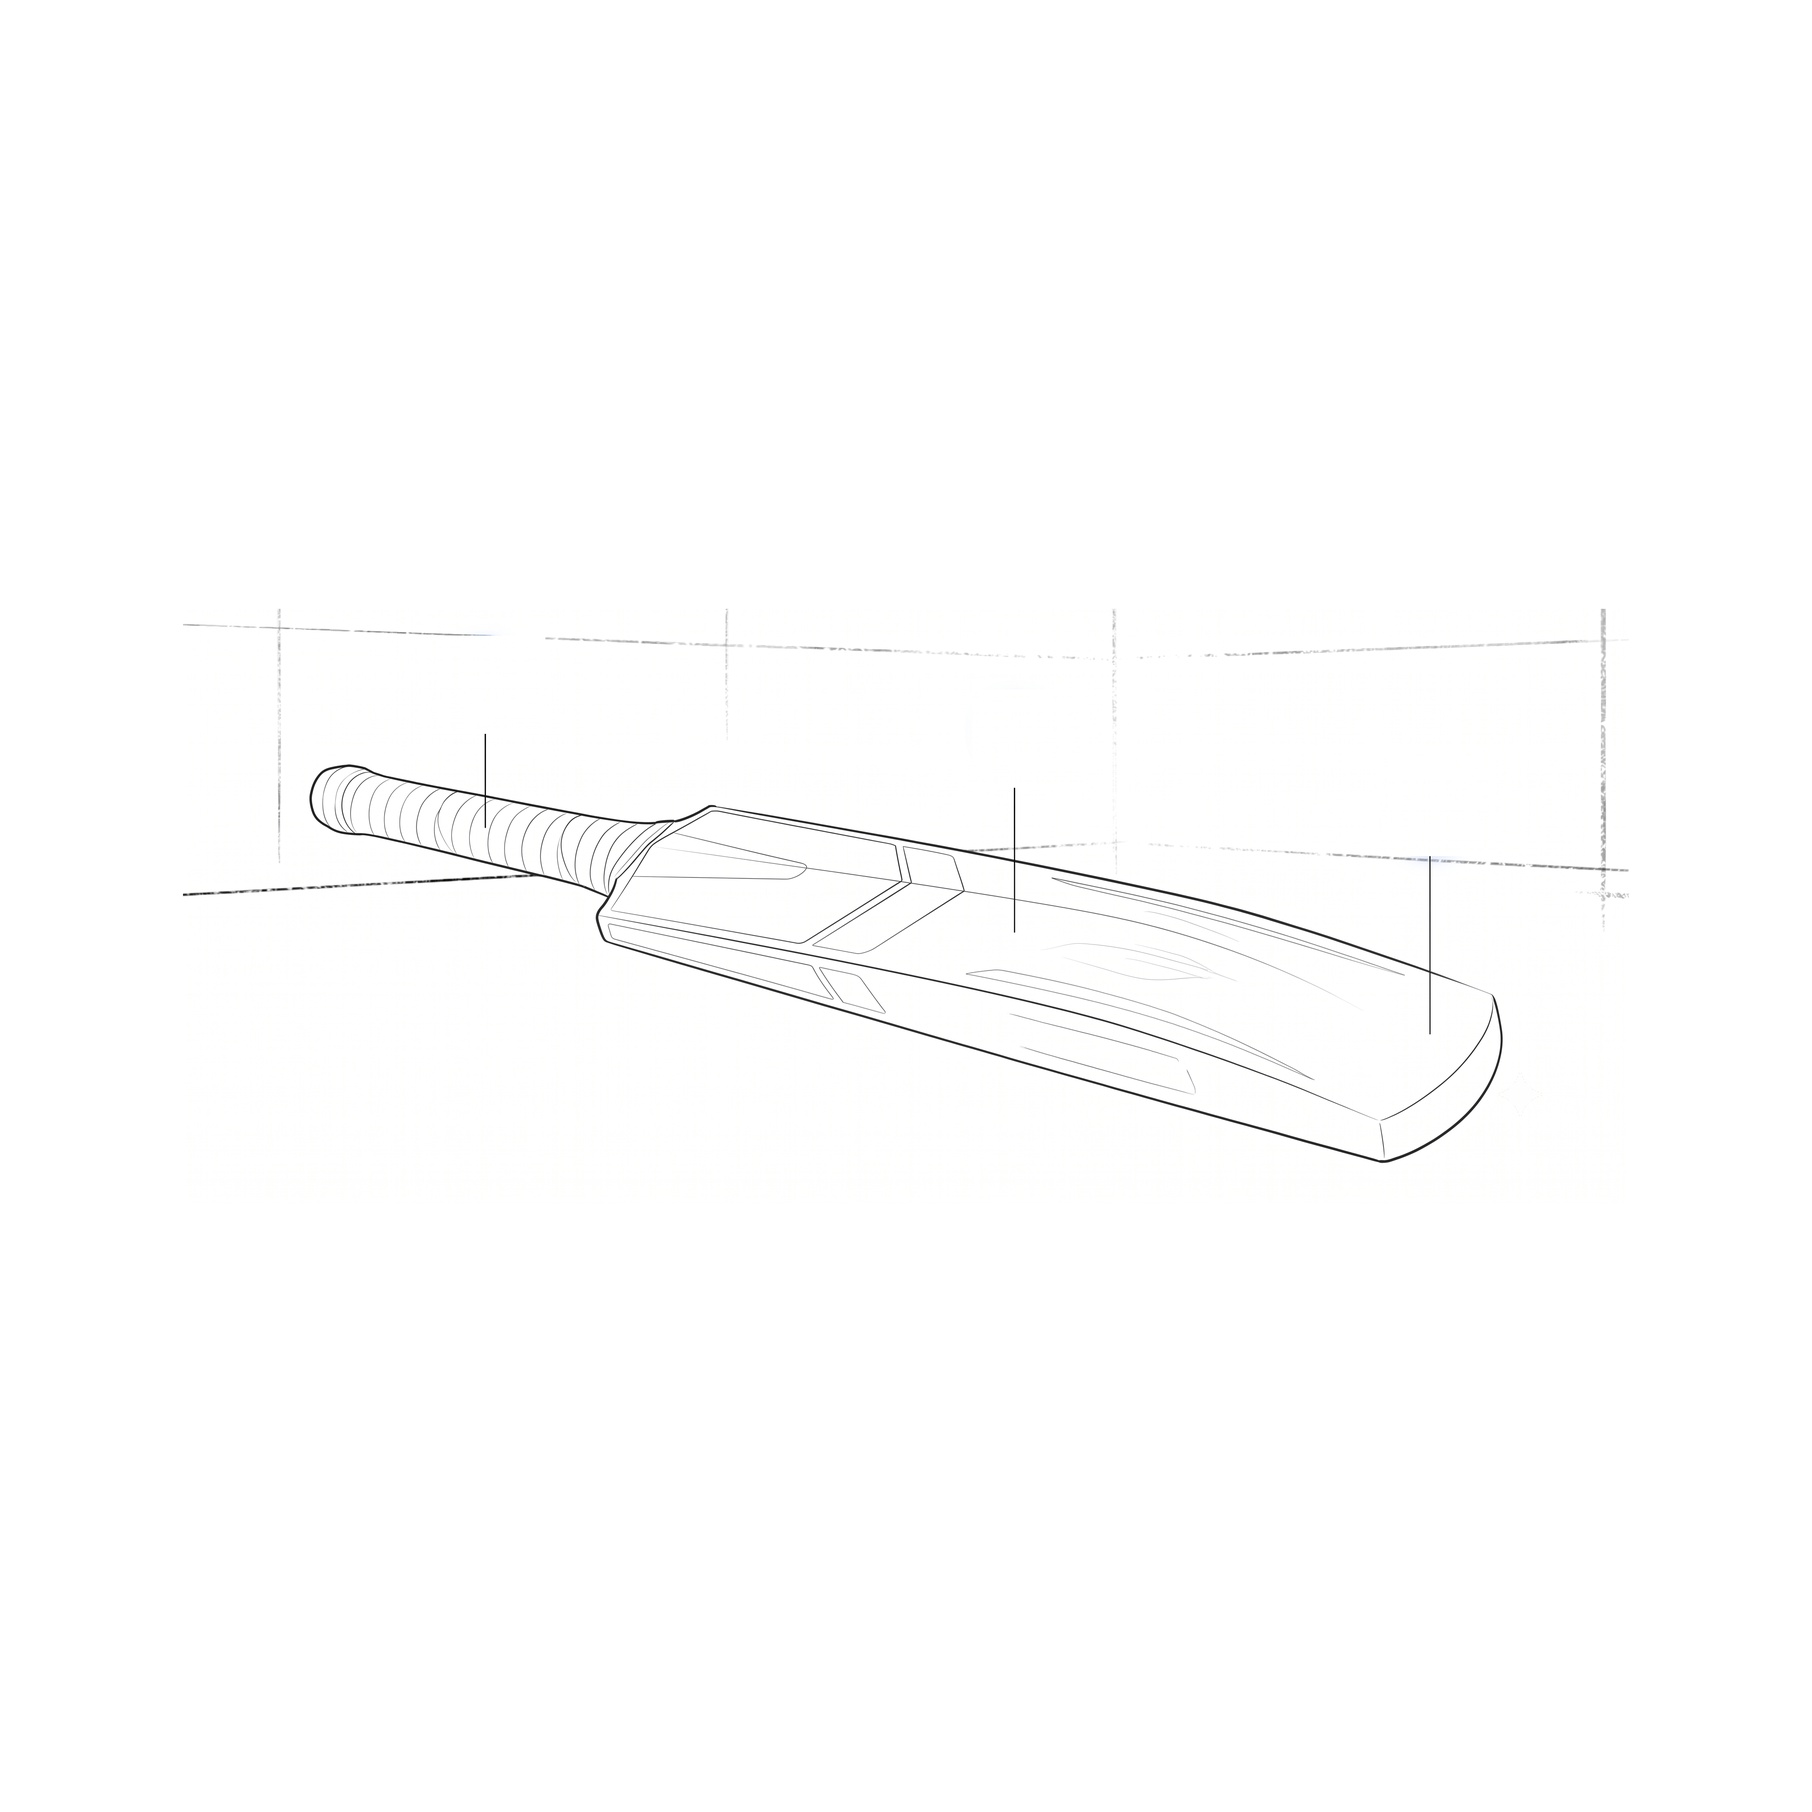
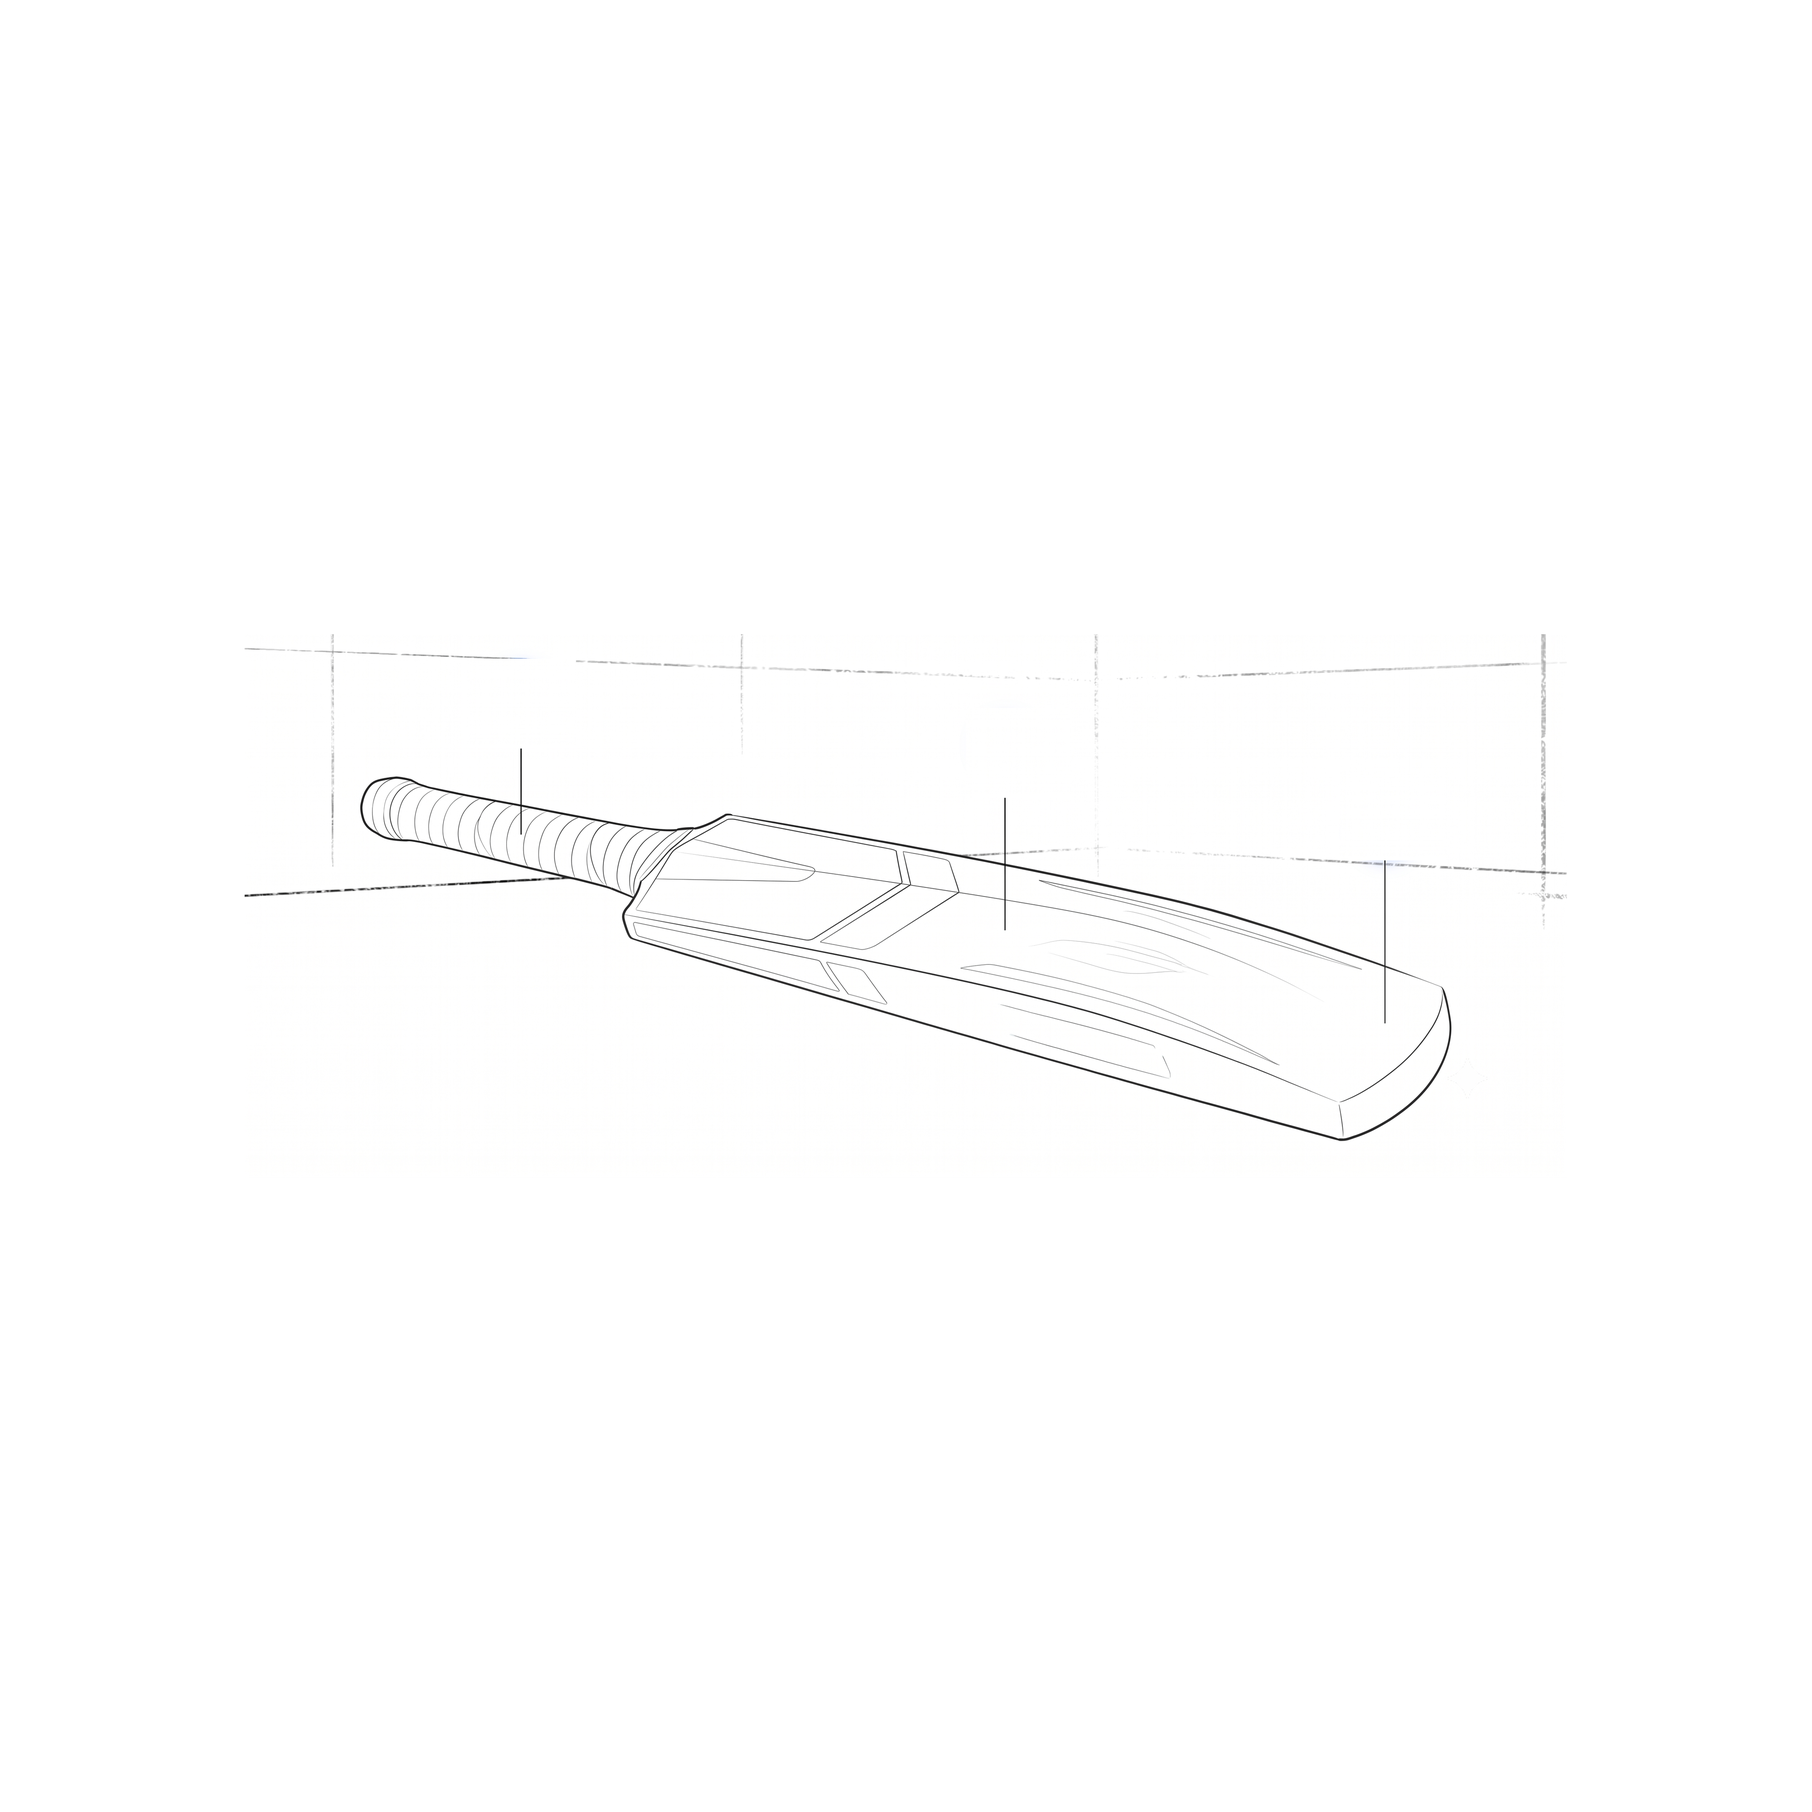
Enhance security section bat scale and shader animation

diff --git a/index.html b/index.html
@@ -3014,13 +3014,14 @@ document.addEventListener("DOMContentLoaded", () => {
 </svg></div></a><div class="mf1-stacks-mosaic-trigger-anchor" id="stacks-mosaic-trigger-anchor"></div><div class="mf1-stacks-graphics mf1-additional"><div class="mf1-stacks-canvas" id="stacks-canvas-1" style="--c-canvas-size: -80px; --c0-size: 0.2; --c1-size: 0.495; --c2-size: 0.4; --c3-size: 0.495; --c4-size: 0.3; --c5-size: 0.3; --c-uniform: 1;"><div class="mf1-connector-outie mf1-connector-0" id="connector-outie-1-0" style="transition: transform 2s cubic-bezier(0.4, 0, 0.2, 1), width 2s cubic-bezier(0.4, 0, 0.2, 1), opacity 2s cubic-bezier(0.4, 0, 0.2, 1); transform: translate(calc(0.4 * var(--c-canvas-size)), calc(0.5 * var(--c-canvas-size))); opacity: 0;"><div class="mf1-connector-innie mf1-connector-0" id="connector-innie-1-0" style="transition: transform 0.4s cubic-bezier(0.15, 0.5, 0.05, 1); transform: initial;"><div class="mf1-connector-image mf1-connector-image-0"></div></div></div><div class="mf1-connector-outie mf1-connector-1" id="connector-outie-1-1" style="transition: transform 2s cubic-bezier(0.4, 0, 0.2, 1), width 2s cubic-bezier(0.4, 0, 0.2, 1), opacity 2s cubic-bezier(0.4, 0, 0.2, 1); transform: translate(calc(0.6 * var(--c-canvas-size)), calc(0.332 * var(--c-canvas-size)));"><div class="mf1-connector-innie mf1-connector-1" id="connector-innie-1-1" style="transition: transform 0.4s cubic-bezier(0.15, 0.5, 0.05, 1); transform: initial;"><div class="mf1-connector-image mf1-connector-image-1"></div></div></div><div class="mf1-connector-outie mf1-connector-2" id="connector-outie-1-2" style="transition: transform 2s cubic-bezier(0.4, 0, 0.2, 1), width 2s cubic-bezier(0.4, 0, 0.2, 1), opacity 2s cubic-bezier(0.4, 0, 0.2, 1); transform: translate(calc(0.55 * var(--c-canvas-size)), calc(-0.1 * var(--c-canvas-size)));"><div class="mf1-connector-innie mf1-connector-2" id="connector-innie-1-2" style="transition: transform 0.4s cubic-bezier(0.15, 0.5, 0.05, 1); transform: initial;"><div class="mf1-connector-image mf1-connector-image-2"></div></div></div><div class="mf1-connector-outie mf1-connector-3" id="connector-outie-1-3" style="transition: transform 2s cubic-bezier(0.4, 0, 0.2, 1), width 2s cubic-bezier(0.4, 0, 0.2, 1), opacity 2s cubic-bezier(0.4, 0, 0.2, 1); transform: translate(calc(-0.1 * var(--c-canvas-size)), calc(0.1 * var(--c-canvas-size)));"><div class="mf1-connector-innie mf1-connector-3" id="connector-innie-1-3" style="transition: transform 0.4s cubic-bezier(0.15, 0.5, 0.05, 1); transform: initial;"><div class="mf1-connector-image mf1-connector-image-3"></div></div></div><div class="mf1-connector-outie mf1-connector-4" id="connector-outie-1-4" style="transition: transform 2s cubic-bezier(0.4, 0, 0.2, 1), width 2s cubic-bezier(0.4, 0, 0.2, 1), opacity 2s cubic-bezier(0.4, 0, 0.2, 1); transform: translate(calc(0.08 * var(--c-canvas-size)), calc(0.7 * var(--c-canvas-size)));"><div class="mf1-connector-innie mf1-connector-4" id="connector-innie-1-4" style="transition: transform 0.4s cubic-bezier(0.15, 0.5, 0.05, 1); transform: initial;"><div class="mf1-connector-image mf1-connector-image-4"></div></div></div><div class="mf1-connector-outie mf1-connector-5" id="connector-outie-1-5" style="transition: transform 2s cubic-bezier(0.4, 0, 0.2, 1), width 2s cubic-bezier(0.4, 0, 0.2, 1), opacity 2s cubic-bezier(0.4, 0, 0.2, 1); transform: translate(calc(0.54 * var(--c-canvas-size)), calc(0.85 * var(--c-canvas-size)));"><div class="mf1-connector-innie mf1-connector-5" id="connector-innie-1-5" style="transition: transform 0.4s cubic-bezier(0.15, 0.5, 0.05, 1); transform: initial;"><div class="mf1-connector-image mf1-connector-image-5"></div></div></div></div></div></div><div class="mf1-stacks-zone"><p class="mf1-caption" style="letter-spacing: 0.15em;">The Soorma Standard</p><h2 class="mf1-h2" style="font-weight: 700 !important;">Built for the big moments.<br>Ready for every match.</h2><p class="mf1-paragraph">From matchday content to team campaigns, every Soorma moment is built to carry the spirit of Amritsar. The work behind the team is just as relentless as the performance on the field.</p><a class="mf1-button w-inline-block" data-wf-ao-click-engagement-pitching="true" data-wf-element-id="cb2fc037-d0cb-4d7e-781d-6b4e54258482" data-wf-native-id-path="cb2fc037-d0cb-4d7e-781d-6b4e54258482" href="https://www.dropbox.com/dropbox" target="_blank"><div>Explore the Soorma world</div><div class="w-embed"><svg fill="currentColor" height="16" viewbox="0 0 16 16" width="16" xmlns="http://www.w3.org/2000/svg">
 <path d="M15.7139 7.75L8.88086 14.8564L7.61914 13.6436L12.4443 8.625H1.5V6.875H12.4443L7.61914 1.85645L8.88086 0.643555L15.7139 7.75Z"></path>
 </svg></div></a></div></div><div class="mf1-stacks-graphics-area" id="w-node-cb2fc037-d0cb-4d7e-781d-6b4e54258486-f9f398e2"><div class="mf1-stacks-stack-trigger-anchor" id="stacks-stack-trigger-anchor"></div><div class="mf1-stacks-end-trigger-anchor" id="stacks-end-trigger-anchor"></div><div class="mf1-stacks-graphics"><div class="mf1-stacks-canvas" id="stacks-canvas-2" style="width: 584px; height: 584px; --c-canvas-size: 584px; --c0-size: 0.2; --c1-size: 0.495; --c2-size: 0.4; --c3-size: 0.495; --c4-size: 0.3; --c5-size: 0.3; --c-uniform: 1;"><div class="mf1-connector-outie mf1-connector-0" id="connector-outie-2-0" style="transition: transform 2s cubic-bezier(0.4, 0, 0.2, 1), width 2s cubic-bezier(0.4, 0, 0.2, 1), opacity 2s cubic-bezier(0.4, 0, 0.2, 1); transform: translate(calc(0.4 * var(--c-canvas-size)), calc(0.5 * var(--c-canvas-size))); opacity: 0;"><div class="mf1-connector-innie mf1-connector-0" id="connector-innie-2-0" style="transition: transform 0.4s cubic-bezier(0.15, 0.5, 0.05, 1); transform: initial;"><div class="mf1-connector-image mf1-connector-image-0 is-v2"></div></div></div><div class="mf1-connector-outie mf1-connector-1" id="connector-outie-2-1" style="transition: transform 2s cubic-bezier(0.4, 0, 0.2, 1), width 2s cubic-bezier(0.4, 0, 0.2, 1), opacity 2s cubic-bezier(0.4, 0, 0.2, 1); transform: translate(calc(0.6 * var(--c-canvas-size)), calc(0.332 * var(--c-canvas-size)));"><div class="mf1-connector-innie mf1-connector-1 is-v2" id="connector-innie-2-1" style="transition: transform 0.4s cubic-bezier(0.15, 0.5, 0.05, 1); transform: initial;"><div class="mf1-connector-image mf1-connector-image-1 is-v2"></div></div></div><div class="mf1-connector-outie mf1-connector-2" id="connector-outie-2-2" style="transition: transform 2s cubic-bezier(0.4, 0, 0.2, 1), width 2s cubic-bezier(0.4, 0, 0.2, 1), opacity 2s cubic-bezier(0.4, 0, 0.2, 1); transform: translate(calc(0.55 * var(--c-canvas-size)), calc(-0.1 * var(--c-canvas-size)));"><div class="mf1-connector-innie mf1-connector-2 is-v2" id="connector-innie-2-2" style="transition: transform 0.4s cubic-bezier(0.15, 0.5, 0.05, 1); transform: initial;"><div class="mf1-connector-image mf1-connector-image-2 is-v2"></div></div></div><div class="mf1-connector-outie mf1-connector-3" id="connector-outie-2-3" style="transition: transform 2s cubic-bezier(0.4, 0, 0.2, 1), width 2s cubic-bezier(0.4, 0, 0.2, 1), opacity 2s cubic-bezier(0.4, 0, 0.2, 1); transform: translate(calc(-0.1 * var(--c-canvas-size)), calc(0.1 * var(--c-canvas-size)));"><div class="mf1-connector-innie mf1-connector-3 is-v2" id="connector-innie-2-3" style="transition: transform 0.4s cubic-bezier(0.15, 0.5, 0.05, 1); transform: initial;"><div class="mf1-connector-image mf1-connector-image-3 is-v2"></div></div></div><div class="mf1-connector-outie mf1-connector-4" id="connector-outie-2-4" style="transition: transform 2s cubic-bezier(0.4, 0, 0.2, 1), width 2s cubic-bezier(0.4, 0, 0.2, 1), opacity 2s cubic-bezier(0.4, 0, 0.2, 1); transform: translate(calc(0.08 * var(--c-canvas-size)), calc(0.7 * var(--c-canvas-size)));"><div class="mf1-connector-innie mf1-connector-4 is-v2" id="connector-innie-2-4" style="transition: transform 0.4s cubic-bezier(0.15, 0.5, 0.05, 1); transform: initial;"><div class="mf1-connector-image mf1-connector-image-4 is-v2"></div></div></div><div class="mf1-connector-outie mf1-connector-5" id="connector-outie-2-5" style="transition: transform 2s cubic-bezier(0.4, 0, 0.2, 1), width 2s cubic-bezier(0.4, 0, 0.2, 1), opacity 2s cubic-bezier(0.4, 0, 0.2, 1); transform: translate(calc(0.54 * var(--c-canvas-size)), calc(0.85 * var(--c-canvas-size)));"><div class="mf1-connector-innie mf1-connector-5 is-v2" id="connector-innie-2-5" style="transition: transform 0.4s cubic-bezier(0.15, 0.5, 0.05, 1); transform: initial;"><div class="mf1-connector-image mf1-connector-image-5 is-v2"></div></div></div></div></div></div></div></section><section class="mf1-security-section"><div class="w-layout-blockcontainer mf1-security-layout w-container"><div class="mf1-security-graphic" id="security-graphic"><div class="mf1-security-canvas-container" id="security-canvas-container"><div class="mf1-security-canvas-square" style="width: 1747.19px; height: 1747.19px;"><div class="mf1-security-canvas-offset"><div class="mf1-security-canvas-embed w-embed w-script"><style>
-
-  .mf1-security-canvas {
+    .mf1-security-canvas-embed {
     display: block;
-    width: 100%;
-    height: 100%;
-  }
-
+    position: absolute;
+    inset: 0px;
+    }
+  .mf1-security-feature-anchor.mf1-anchor-1 { left: 40.9% !important; bottom: 49.35% !important; height: 10% !important; }
+  .mf1-security-feature-anchor.mf1-anchor-2 { left: 55.4% !important; bottom: 47.08% !important; height: 12% !important; }
+  .mf1-security-feature-anchor.mf1-anchor-3 { left: 85.0% !important; bottom: 42.38% !important; height: 7% !important; }
 </style>
 <canvas class="mf1-security-canvas" height="1747" id="security-canvas" style="width: 1747px; height: 1747px;" width="1747"></canvas>
 <script id="security-vertex-shader" type="x-shader/x-vertex">
@@ -3045,9 +3046,9 @@ document.addEventListener("DOMContentLoaded", () => {
             uniform sampler2D u_texture1; // security-idle
             uniform sampler2D u_texture2; // security-active
 
-            const vec2 activePosition1 = vec2(0.3, 1.0 - 0.68);
-            const vec2 activePosition2 = vec2(0.56, 1.0 - 0.6);
-            const vec2 activePosition3 = vec2(0.76, 1.0 - 0.59);
+            const vec2 activePosition1 = vec2(0.409, 0.4835);
+            const vec2 activePosition2 = vec2(0.554, 0.4608);
+            const vec2 activePosition3 = vec2(0.850, 0.4138);
 
             const float activeSpotlightSize1 = 0.10;
             const float activeSpotlightSize2 = 0.07;
@@ -3113,14 +3114,7 @@ document.addEventListener("DOMContentLoaded", () => {
                 vec2 uv = gl_FragCoord.xy / u_resolution;
 
                 vec4 idleColor = texture2D(u_texture1, vec2(uv.x, 1.0 - uv.y));
-
-                if (uv.x < 0.22 || uv.x > 0.77 || uv.y < 0.28 || uv.y > 0.48) {
-                    gl_FragColor = idleColor;
-                    return;
-                }
-
                 vec3 st = vec3(uv, u_time / 200.0);
-
                 vec4 activeColor = texture2D(u_texture2, vec2(uv.x, 1.0 - uv.y));
 
                 // Calculate noise and spotlight mask
@@ -3149,7 +3143,7 @@ document.addEventListener("DOMContentLoaded", () => {
                 float spotlight = 1.0 - ((dist - spotlightSize) / spotlightBlurRadius);
 
                 float mask = spotlight;
-                mask *= (activeColor.g * (0.4 * activeColor.b + 0.6) * 2.0);
+                mask *= (activeColor.r * (0.4 * activeColor.g + 0.6) * 2.0);
                 mask += spotlight / 2.5;
                 mask *= max(0.0, (noise - 0.1) * 4.0);
                 mask += max(0.0, (spotlight - 0.3) * 0.7);
@@ -3318,8 +3312,8 @@ document.addEventListener("DOMContentLoaded", () => {
         renderSecurityCanvas(false);
     }
 
-    const texture1 = loadSecurityTexture(securityGl, 'Branding_stuff/Cricket bat no color square.png');
-    const texture2 = loadSecurityTexture(securityGl, 'Branding_stuff/Cricket bat with color square prescaled.png');
+    const securityTexture1 = loadSecurityTexture('Branding_stuff/Cricket bat no color square.png?' + Date.now());
+    const securityTexture2 = loadSecurityTexture('Branding_stuff/Cricket bat with color square.png?' + Date.now());
 
     // Track texture loading
     let texturesLoaded = 0;

diff --git a/make_textures.py b/make_textures.py
@@ -1,0 +1,27 @@
+from PIL import Image
+
+# 1. Load the original bat images
+idle_orig = Image.open('Branding_stuff/Cricket bat no color.png').convert('RGBA')
+active_orig = Image.open('Branding_stuff/Cricket bat with color.png').convert('RGBA')
+
+# 2. Scale them down to fit 3600x1200
+scale_factor = min(3600 / float(active_orig.width), 1200 / float(active_orig.height))
+
+idle_scaled = idle_orig.resize((int(idle_orig.width * scale_factor), int(idle_orig.height * scale_factor)), Image.Resampling.LANCZOS)
+active_scaled = active_orig.resize((int(active_orig.width * scale_factor), int(active_orig.height * scale_factor)), Image.Resampling.LANCZOS)
+
+# 3. Create the 4000x4000 canvases
+idle_canvas = Image.new('RGBA', (4000, 4000), (255, 255, 255, 0))
+active_canvas = Image.new('RGBA', (4000, 4000), (255, 255, 255, 0))
+
+# 4. Paste the scaled bats into the center
+idle_offset = ((4000 - idle_scaled.width) // 2, (4000 - idle_scaled.height) // 2)
+active_offset = ((4000 - active_scaled.width) // 2, (4000 - active_scaled.height) // 2)
+
+idle_canvas.paste(idle_scaled, idle_offset, idle_scaled)
+active_canvas.paste(active_scaled, active_offset, active_scaled)
+
+# 5. Save the output
+idle_canvas.save('Branding_stuff/Cricket bat no color square.png')
+active_canvas.save('Branding_stuff/Cricket bat with color square.png')
+print('Done!')

diff --git a/check_center.py b/check_center.py
@@ -1,0 +1,19 @@
+from PIL import Image
+
+img = Image.open('Branding_stuff/Cricket bat with color square.png').convert("RGBA")
+pixels = img.load()
+
+center_x, center_y = img.width // 2, img.height // 2
+print(f"Center pixel: {pixels[center_x, center_y]}")
+print(f"Pixel at 1980, 2480: {pixels[1980, 2480]}")
+
+# Find any opaque pixel
+opaque_pixels = [(x, y) for x in range(img.width) for y in range(img.height) if pixels[x, y][3] > 0]
+if opaque_pixels:
+    print(f"Found {len(opaque_pixels)} opaque pixels.")
+    print(f"First opaque pixel at: {opaque_pixels[0]}")
+    print(f"Last opaque pixel at: {opaque_pixels[-1]}")
+    import random
+    print(f"Sample opaque pixels: {random.sample(opaque_pixels, min(5, len(opaque_pixels)))}")
+else:
+    print("No opaque pixels found!")

diff --git a/dump_new.py b/dump_new.py
@@ -1,0 +1,7 @@
+from PIL import Image
+
+idle = Image.open('Branding_stuff/Cricket bat no color square.png').convert("RGBA")
+active = Image.open('Branding_stuff/Cricket bat with color square prescaled.png').convert("RGBA")
+
+print("Idle max alpha:", idle.split()[3].getextrema())
+print("Active max alpha:", active.split()[3].getextrema())
